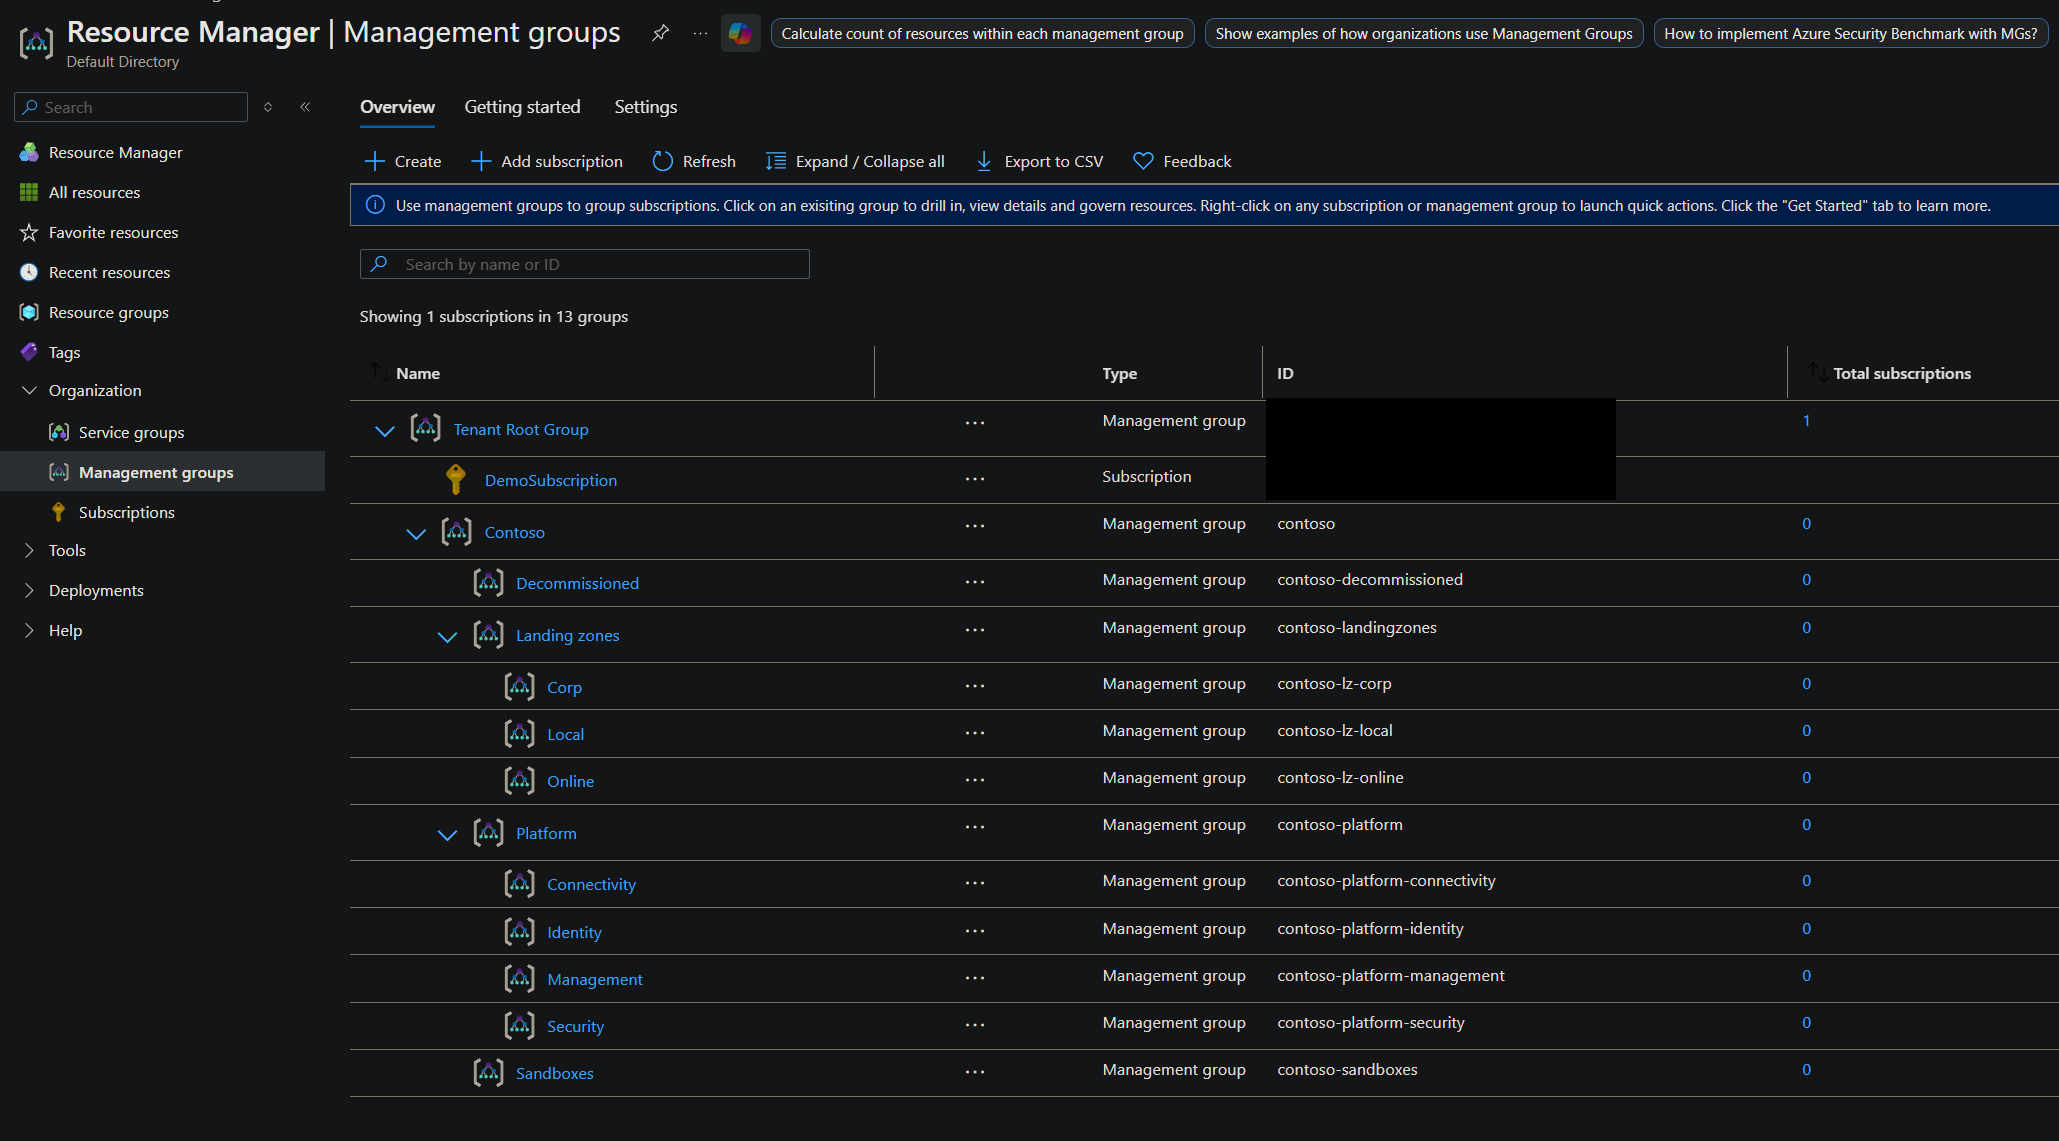
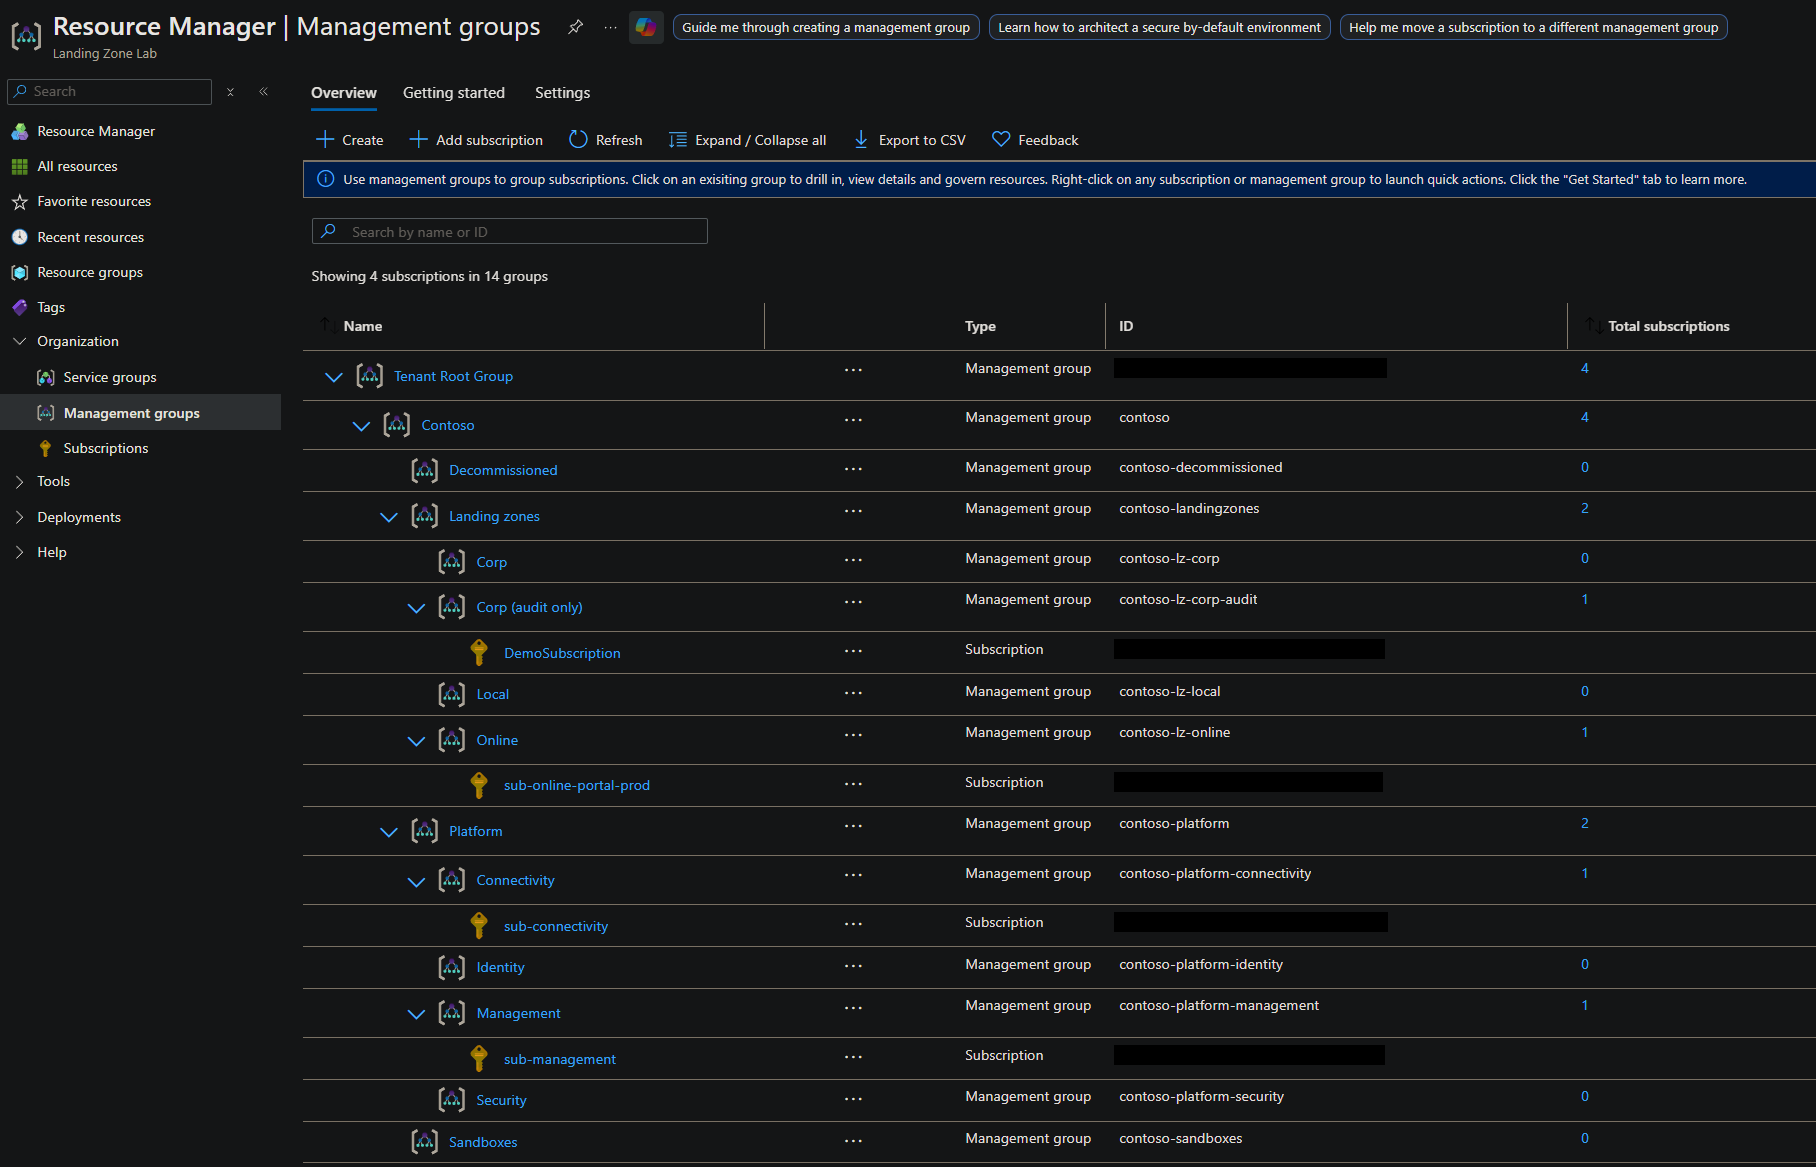
Replace the hierarchy screenshot with the current tree
Shows all 13 groups, including Corp (audit only), and all four
subscriptions in place. IDs are blacked out, as before.

diff --git a/README.md b/README.md
@@ -154,12 +154,12 @@ The third row is the Modify effect. Five resources are compliant with the
 The hierarchy screenshot is at
 [docs/evidence/hierarchy-portal.png](docs/evidence/hierarchy-portal.png).
 
-Both screenshots were captured on 6 and 7 September 2026. The hierarchy one is
-older than the tree: it predates the `Corp (audit only)` group and the
-subscription placements, so it shows 12 groups and DemoSubscription still under
-the tenant root. The [diagram above](#hierarchy) is current, and the Bicep
-what-if in [bicep/README.md](bicep/README.md#what-if-against-the-deployed-estate)
-confirms the live tree matches it: 13 groups, no differences.
+The policy screenshot is from 7 September 2026. The hierarchy one is from 12
+September and matches the [diagram above](#hierarchy): 13 groups under the
+tenant root and all four subscriptions placed, with the IDs blacked out. The
+Bicep what-if in
+[bicep/README.md](bicep/README.md#what-if-against-the-deployed-estate)
+confirms the same tree independently.
 
 ## Constraints
 
